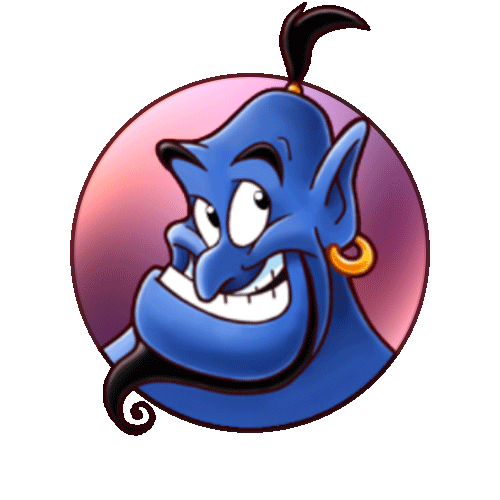
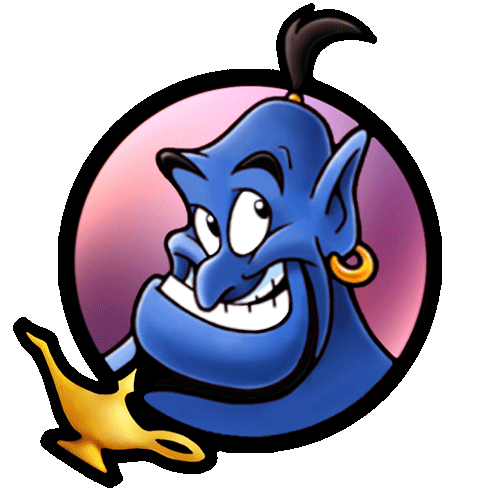
Televo v.1.4.2-4 (#7)
- Updated summon icons
- Added Larxene to Space Paranoids
- Edited growth abilities position and scale
- Added tracker icon and cross icon

diff --git a/frontend/items.js b/frontend/items.js
@@ -14,7 +14,7 @@
     "worlds/agrabah": { total: 2, data: "lexaeus", },
     "worlds/halloween_town": { total: 2, data: "vexen", },
     "worlds/pride_land": { total: 2, data: "saix", },
-    "worlds/space_paranoids": { total: 2, },
+    "worlds/space_paranoids": { total: 2, data: "larxene", },
     "worlds/the_world_that_never_was": { data: "xemnas", secondary: [ "roxas", "xigbar", "luxord", "saix", "kingdom_hearts" ].map(i => `nobody/${i}`) },
     "worlds/atlantica": { total: 6, data: "larxene", cls: "atlantica", },
     "worlds/100_acre_wood": { total: 6, secondary: [ "page", "page2", "page3", "page4", "page5" ].map(p => `secondary/pages/${p}`), cls: "hundred_acre", },
